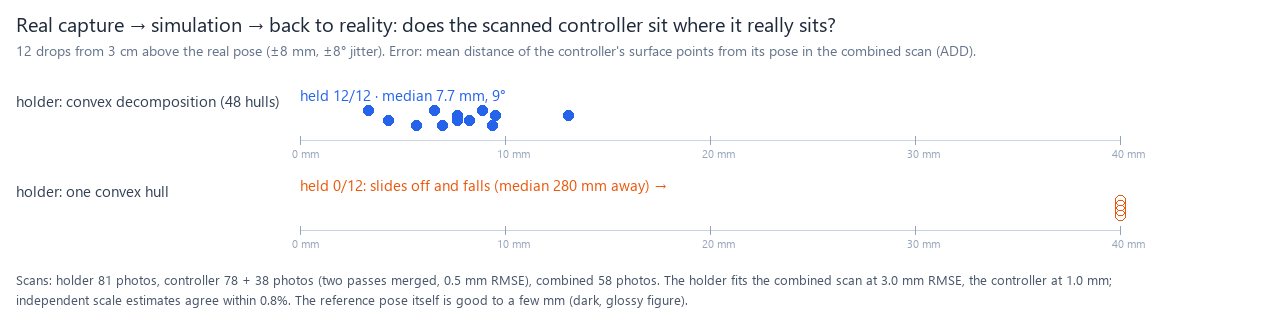
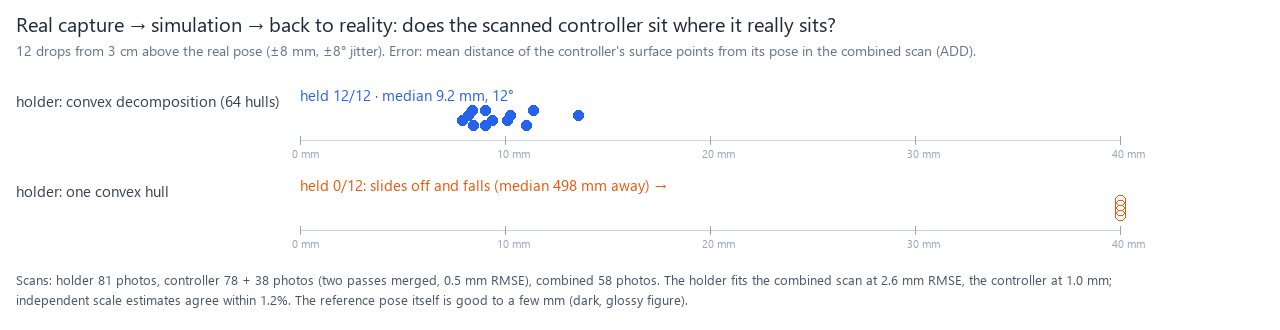
Real-world check: lead photo strip, fitted cylinder base for the holder
- mesh_ops.fit_disc_base: replace a pitted scanned round base with a cylinder fitted to its
  measured flat top (holder: r 51.1 mm, top 18.4 mm, 0.25 mm rim RMS); test
- Finer decomposition (64 / 39 hulls); holder registered on the figure above its base
- Drop-in: held 12/12, median 9.2 mm / 12 deg from the real pose; one hull 0/12
- Lead strip: cropped source photo -> each scan -> the simulated drop, on README and overview

diff --git a/docs/overview.html b/docs/overview.html
@@ -59,7 +59,7 @@
   <div class="card kpi"><b><span class="good">pick</span> vs <span class="bad">fail</span></b><span>Franka picks the scanned mug with convex decomposition, fails with one hull, in MuJoCo and Isaac Sim</span></div>
   <div class="card kpi"><b>88% → 100%</b><span>real photos where a detector trained only on our synthetic Isaac Sim data finds the object</span></div>
   <div class="card kpi"><b>5 / 6</b><span>true masses inside the uncertainty interval stored in the USD file (a single value: 2 / 6 within 10%)</span></div>
-  <div class="card kpi"><b>12 / 12</b><span>drops where a scanned controller settles into a scanned holder, median 7.7 mm from where the real one sits (phone photos)</span></div>
+  <div class="card kpi"><b>12 / 12</b><span>drops where a scanned controller settles into a scanned holder, median 9.2 mm from where the real one sits (phone photos)</span></div>
   <div class="card kpi"><b>18 / 18</b><span>unseen photos where the asset's Gaussian splat looks closer to reality than its textured mesh</span></div>
 </div>
 
@@ -133,14 +133,16 @@
 
 <h2>Real-world check: scan, simulate, compare</h2>
 <p class="muted" style="max-width:900px">Own iPhone 13 Pro photos of a controller holder and a game controller, each scanned on its own, then photographed together. The combined scan is the answer key: does the simulated controller settle where the real one sits?</p>
+<div class="card" style="margin-bottom:12px"><img src="figures/holder_fit_lead.jpg" alt="The real pair, each object scanned alone, and the simulated drop">
+  <p class="cap">One of the 58 photos of the real pair (left), the two objects each scanned on their own, and the simulation that puts them back together.</p></div>
 <div class="card" style="margin-bottom:12px"><img src="figures/holder_fit.webp" alt="Scanned controller dropped into the scanned holder">
-  <p class="cap">MuJoCo, both objects from phone photos (holder 81 photos, controller 78 + 38 in two passes). The controller is released 3 cm above its real pose; green is where it really rests, from the combined scan. Left: the holder's 48 convex pieces form the cupped hands, and the controller settles into them. Right: with one convex hull, the hands are a smooth bulge and the controller slides off.</p></div>
+  <p class="cap">MuJoCo, both objects from phone photos (holder 81 photos, controller 78 + 38 in two passes). The controller is released 3 cm above its real pose; green is where it really rests, from the combined scan. Left: the holder's 64 convex pieces form the cupped hands, and the controller settles into them. Right: with one convex hull, the hands are a smooth bulge and the controller slides off.</p></div>
 <div class="card" style="margin-bottom:12px"><img src="figures/holder_fit_results.png" alt="Settle error per drop">
-    <p class="cap">12 drops with ±8 mm / ±8° jitter. Decomposition: held 12/12, median 7.7 mm / 9° from the real pose (released 31 mm away). One hull: 0/12 held.</p></div>
+    <p class="cap">12 drops with ±8 mm / ±8° jitter. Decomposition: held 12/12, median 9.2 mm / 12° from the real pose (released 31 mm away). One hull: 0/12 held.</p></div>
 <div class="card small"><h3>How the answer key is made</h3><ul>
-    <li><b>Scale:</b> from two tape measurements (holder 21 cm tall; controller 5.5 cm thick). The combined scan, fitted with the holder at free scale, agrees within 0.8%.</li>
+    <li><b>Scale:</b> from two tape measurements (holder 21 cm tall; controller 5.5 cm thick). The combined scan, fitted with the holder at free scale, agrees within 1.2%.</li>
     <li><b>Two passes, one controller:</b> face-up and standing scans aligned by a similarity ICP over a rotation search (0.5 mm RMSE), pen box and paper removed, colors matched on the overlap, Poisson-meshed.</li>
-    <li><b>Ground truth:</b> both assets registered into the combined scan (holder 3.0 mm RMSE, controller 1.0 mm). The dark, glossy figure limits this to a few mm, so the 7.7 mm settle error is an upper bound.</li>
+    <li><b>Ground truth:</b> both assets registered into the combined scan (holder 2.6 mm RMSE, controller 1.0 mm). The dark, glossy figure limits this to a few mm, so the 9.2 mm settle error is an upper bound.</li>
     <li><code>scripts/study_holder_fit.py</code> · <code>register.py</code></li></ul></div>
 
 <h2>Robotics demos</h2>

diff --git a/scripts/study_holder_fit.py b/scripts/study_holder_fit.py
@@ -1,6 +1,6 @@
 """Real capture study: a scanned controller holder, a scanned controller, and the two together.
 
-    python scripts/study_holder_fit.py [--stage prep,scale,merge,assets,truth,sim,video,figure]
+    python scripts/study_holder_fit.py [--stage prep,scale,merge,base,assets,truth,sim,video,figure,lead]
 
 Data: four iPhone 13 Pro captures (data/raw/, git-ignored), each reconstructed with
 `scan2usd reconstruct` into data/work/<name>/:
@@ -19,6 +19,8 @@ Stages (outputs in output/holder_fit/):
   merge   the standing pass is registered onto the face-up pass (similarity ICP over a rotation
           search, after removing the pen box); their union, minus the face-up pass's paper-skirt band,
           is meshed (Poisson) into one controller.
+  base    the holder's glossy black base is barely seen from the side, so Poisson pits it; it is
+          replaced by a cylinder fitted to its densely measured flat top (mesh_ops.fit_disc_base).
   assets  scan2usd builds: holder (plastic, 528 g) and controller (plastic, 243 g), convex decomposition.
   truth   both assets registered into the combined scan: the real resting pose of the controller
           relative to the holder.
@@ -26,6 +28,7 @@ Stages (outputs in output/holder_fit/):
           settles vs where it really rests, for the decomposed and single-hull holder.
   video   side-by-side drop animation with a ghost of the real pose (docs/figures/holder_fit.{webp,jpg}).
   figure  per-trial error strip (docs/figures/holder_fit_results.png).
+  lead    the docs' lead strip: one source photo (cropped tight) -> each scan -> the drop.
 
 """
 
@@ -129,6 +132,23 @@ def stage_merge(state):
     state["merge"]["points"] = int(len(pts))
 
 
+def stage_base(state):
+    """The holder's round base: replace the pitted scan with a fitted cylinder (mesh_ops.fit_disc_base)."""
+    import trimesh
+
+    from scan2usd.mesh_ops import fit_disc_base
+
+    mesh = trimesh.load(WORK / "cod_holder" / "object_mesh.ply", force="mesh")
+    pts, nrm, _ = load("cod_holder")
+    fixed, fit = fit_disc_base(mesh, pts, nrm)
+    fixed.export(OUT / "cod_holder_base_fixed.ply")
+    s = state["scale"]["cod_holder"]
+    state["base"] = {"top_mm": fit["z_top"] * s * 1000, "radius_mm": fit["radius"] * s * 1000,
+                     "rim_rms_mm": fit["rim_rms"] * s * 1000, "watertight": bool(fixed.is_watertight)}
+    print(f"holder base: disc r {fit['radius'] * s * 1000:.1f} mm, top {fit['z_top'] * s * 1000:.1f} mm "
+          f"(rim fit RMS {fit['rim_rms'] * s * 1000:.2f} mm), watertight {fixed.is_watertight}")
+
+
 def stage_assets(state):
     """Physics assets from the scans, scaled to the measured sizes and masses."""
     import shutil
@@ -136,7 +156,7 @@ def stage_assets(state):
     from scan2usd.pipeline import BuildOptions, build_asset
 
     jobs = {
-        "cod_holder": (WORK / "cod_holder" / "object_mesh.ply", MEAS["cod_holder"]["height_m"], "z",
+        "cod_holder": (OUT / "cod_holder_base_fixed.ply", MEAS["cod_holder"]["height_m"], "z",
                        MEAS["cod_holder"]["mass_kg"]),
         # The merged controller is already metric (face-up scale): no rescale.
         "controller": (OUT / "controller_closed.ply", None, "z", MEAS["controller"]["mass_kg"]),
@@ -147,7 +167,7 @@ def stage_assets(state):
         shutil.rmtree(out, ignore_errors=True)
         opts = BuildOptions(name=name, material="plastic", mass=mass, up_axis="z", units="m", scale_to=scale_to,
                             scale_axis=axis, usda=True, run_sim=True, preview=True, gltf=True,
-                            bake_texture=2048, max_hulls=48)
+                            bake_texture=2048, max_hulls=64, hull_threshold=0.03)
         res = build_asset(mesh, out, opts)
         mp = res.summary["mass_properties"]
         state["assets"][name] = {"usd": str(res.usd_path.relative_to(ROOT)).replace("\\", "/"),
@@ -205,17 +225,21 @@ def stage_truth(state):
     from scipy.spatial.transform import Rotation
 
     scene = load("holder_with_controller")[0] * state["scale"]["holder_with_controller"]
-    scene_d = voxel_down(scene, 0.0015, 60000)
-    hp, _ = asset_points("cod_holder")
+    hp, _ = asset_points("cod_holder", 60000)
     cp, _ = asset_points("controller")
     tau = 0.002
     # Holder: both stand on the table (z = 0, Z-up), so search yaw only; scale is metric on both sides.
-    h_fit = global_register(voxel_down(hp, 0.002, 12000), scene_d, scale=1.0,
-                            rotations=candidate_rotations(180, yaw_only=True), tau=tau, trim=0.6, with_scale=False,
+    # Only the figure above its base is used: the base is a fitted disc in the asset but a pitted,
+    # paper-fringed scan in the combined capture, and a disc has no yaw to offer anyway.
+    above = 0.025
+    h_src = voxel_down(hp[hp[:, 2] > above], 0.002, 12000)
+    h_dst = voxel_down(scene[scene[:, 2] > above], 0.0015, 60000)
+    h_fit = global_register(h_src, h_dst, scale=1.0, rotations=candidate_rotations(72, yaw_only=True), tau=tau,
+                            trim=0.6, with_scale=False, keep=8,
                             anchor_src=np.array([*hp[:, :2].mean(0), 0.0]),
                             anchor_dst=np.array([*scene[:, :2].mean(0), 0.0]))
     # Scene scale check: free scale refinement from the holder fit.
-    h_free = similarity_icp(voxel_down(hp, 0.002, 12000), scene_d, h_fit.transform, iters=60, trim=0.6, tau=tau)
+    h_free = similarity_icp(h_src, h_dst, h_fit.transform, iters=60, trim=0.6, tau=tau)
     # Controller: the scene points the holder doesn't explain, then a full rotation search.
     d, _ = cKDTree(h_fit.transform.apply(hp)).query(scene)
     rest = scene[d > 0.004]
@@ -316,7 +340,7 @@ def stage_video(state):
     normal = R_true @ np.array([0, 0, 1.0])
     az = float(np.degrees(np.arctan2(-normal[1], -normal[0]))) + 35
     clips = []
-    for variant, coll in (("convex decomposition (48 hulls)", "hulls"), ("one convex hull", "single")):
+    for variant, coll in (("convex decomposition (64 hulls)", "hulls"), ("one convex hull", "single")):
         hold = asset_body(h_asset, "holder", collision=coll, free=False, rgba=(0.32, 0.32, 0.36, 1), visual_faces=60000)
         ctrl = asset_body(c_asset, "ctrl", pos=t_true + np.array([0, 0, 0.03]), quat=qt, collision="hulls",
                           rgba=(0.92, 0.92, 0.9, 1), visual_faces=60000)
@@ -381,7 +405,7 @@ def stage_figure(state):
     d.text((16, 40), "12 drops from 3 cm above the real pose (±8 mm, ±8° jitter). Error: mean distance of the controller's "
            "surface points from its pose in the combined scan (ADD).", fill=(100, 116, 139), font=_font(14))
     x0, y0, bw, add_max = 300, 80, 820, 40
-    for row, (name, lab, colr) in enumerate((("decomposed", "holder: convex decomposition (48 hulls)", (37, 99, 235)),
+    for row, (name, lab, colr) in enumerate((("decomposed", "holder: convex decomposition (64 hulls)", (37, 99, 235)),
                                              ("one hull", "holder: one convex hull", (234, 88, 12)))):
         y = y0 + row * 90
         d.text((16, y + 10), lab, fill=(51, 65, 85), font=_font(15))
@@ -407,16 +431,62 @@ def stage_figure(state):
     img.save(FIG / "holder_fit_results.png")
 
 
+def stage_lead(state, photo: str = "IMG_0024.jpg"):
+    """Lead strip for the docs: the real pair (one source photo, cropped) -> each scan alone -> the drop."""
+    import trimesh
+    from PIL import Image, ImageDraw
+
+    from scan2usd.preview import _font, render
+
+    S = 420
+    im = Image.open(ROOT / "data" / "raw" / "holder_with_controller" / photo).convert("RGB")
+    side, cx, top = 2750, im.width // 2, 360  # tight on the pair; drops most of the floor and flyers
+    photo_img = im.crop((cx - side // 2, top, cx + side // 2, top + side)).resize((S, S), Image.LANCZOS)
+
+    def scan(path, az, el):
+        full = trimesh.load(path, force="mesh")
+        m = full.simplify_quadric_decimation(face_count=250_000) if len(full.faces) > 250_000 else full.copy()
+        _, idx = cKDTree(full.vertices).query(m.vertices)
+        m.visual = trimesh.visual.ColorVisuals(m, vertex_colors=np.asarray(full.visual.vertex_colors)[idx])
+        return render([m], size=S, azimuth=az, elevation=el)
+
+    holder = scan(OUT / "cod_holder_base_fixed.ply", -90, 12)
+    ctrl = scan(OUT / "controller_merged.ply", -90, 55)
+    sim = Image.open(FIG / "holder_fit.jpg").convert("RGB").crop((95, 31, 545, 431)).resize((S, int(S * 400 / 450)))
+    simp = Image.new("RGB", (S, S), "white")
+    simp.paste(sim, (0, 0))
+    ImageDraw.Draw(simp).text((10, S - 36), "green: where it really rests (photo 1)", fill=(21, 128, 61), font=_font(17))
+    add = state["sim"]["decomposed"]["add_mm_median"]
+    panels = [(photo_img, "1 - The real pair", "iPhone photo (58 taken)"),
+              (holder, "2 - Holder, scanned alone", "81 photos to 3D"),
+              (ctrl, "3 - Controller, scanned alone", "78 + 38 photos, two passes"),
+              (simp, "4 - Simulated drop (MuJoCo)", f"settles {add:.1f} mm from the real pose")]
+    gap, top_h = 50, 70
+    out = Image.new("RGB", (4 * S + 3 * gap + 40, S + top_h + 20), "white")
+    d = ImageDraw.Draw(out)
+    for k, (img, t, sub) in enumerate(panels):
+        x = 20 + k * (S + gap)
+        d.text((x, 8), t, fill=(30, 41, 59), font=_font(24))
+        d.text((x, 40), sub, fill=(100, 116, 139), font=_font(17))
+        out.paste(img, (x, top_h))
+        d.rectangle([x, top_h, x + S - 1, top_h + S - 1], outline=(226, 232, 240))
+        if k < 3:
+            ax, ay = x + S + 10, top_h + S // 2
+            d.polygon([(ax, ay - 12), (ax + 28, ay), (ax, ay + 12)], fill=(37, 99, 235))
+    out.save(FIG / "holder_fit_lead.jpg", quality=88)  # re-encoded: no EXIF / GPS
+    print("wrote holder_fit_lead.jpg")
+
+
 def main() -> None:
     ap = argparse.ArgumentParser()
-    ap.add_argument("--stage", default="prep,scale,merge,assets,truth,sim,video,figure")
+    ap.add_argument("--stage", default="prep,scale,merge,base,assets,truth,sim,video,figure,lead")
     args = ap.parse_args()
     OUT.mkdir(parents=True, exist_ok=True)
     state_path = OUT / "state.json"
     state = json.loads(state_path.read_text()) if state_path.exists() else {}
     for st in args.stage.split(","):
-        {"prep": stage_prep, "scale": stage_scale, "merge": stage_merge, "assets": stage_assets, "truth": stage_truth,
-         "sim": stage_sim, "video": stage_video, "figure": stage_figure}[st](state)
+        {"prep": stage_prep, "scale": stage_scale, "merge": stage_merge, "base": stage_base, "assets": stage_assets, "truth": stage_truth,
+         "sim": stage_sim, "video": stage_video, "figure": stage_figure, "lead": stage_lead}[st](state)
         state_path.write_text(json.dumps(state, indent=2))
 
 

diff --git a/src/scan2usd/mesh_ops.py b/src/scan2usd/mesh_ops.py
@@ -210,3 +210,47 @@ def decimate(mesh: trimesh.Trimesh, target_faces: int) -> tuple[trimesh.Trimesh,
         notes.append("decimation opened the surface; consider a higher --target-faces")
     notes.append(f"decimated {len(mesh.faces)} -> {len(low.faces)} faces")
     return low, notes
+
+
+def fit_disc_base(mesh: trimesh.Trimesh, points: np.ndarray, normals: np.ndarray, max_height_frac: float = 0.2,
+                  segments: int = 128) -> tuple[trimesh.Trimesh, dict]:
+    """Replace a scanned round base (figure stands, trophies, lamps) with a fitted cylinder.
+
+    The sides of a dark or glossy base are rarely matched by photogrammetry, so Poisson fills them
+    with pits and bumps; its flat top, seen from above, is usually measured densely. The top plane is
+    the dominant height of upward-facing points in the lowest `max_height_frac` of the object; the
+    circle is a least-squares fit to that top's outer rim. The mesh below the top is replaced by the
+    cylinder (boolean union). `points`/`normals`: the measured cloud, same frame as `mesh` (Z-up,
+    table at z = 0). Returns the new mesh and the fit.
+    """
+    h = float(points[:, 2].max())
+    up = (normals[:, 2] > 0.9) & (points[:, 2] < max_height_frac * h)
+    if up.sum() < 200:
+        raise ValueError("no flat base top found")
+    hist, edges = np.histogram(points[up, 2], bins=100, range=(0, max_height_frac * h))
+    k = int(hist.argmax())
+    z_top = float(points[up, 2][(points[up, 2] >= edges[k]) & (points[up, 2] < edges[k + 1])].mean())
+    top = points[up & (np.abs(points[:, 2] - z_top) < 2 * (edges[1] - edges[0]))][:, :2]
+    from scipy.spatial import ConvexHull
+
+    rim = top[ConvexHull(top).vertices]
+    # Algebraic circle fit: x^2 + y^2 + a x + b y + c = 0.
+    a_, b_, c_ = np.linalg.lstsq(np.c_[rim, np.ones(len(rim))], -(rim ** 2).sum(1), rcond=None)[0]
+    center = np.array([-a_ / 2, -b_ / 2])
+    radius = float(np.sqrt(center @ center - c_))
+    rim_err = np.abs(np.linalg.norm(rim - center, axis=1) - radius)
+    disc = trimesh.creation.cylinder(radius=radius, height=z_top, sections=segments)
+    disc.apply_translation([center[0], center[1], z_top / 2])
+    upper = mesh.slice_plane([0, 0, z_top * 0.98], [0, 0, 1], cap=True)
+    merged = trimesh.boolean.union([upper, disc], engine="manifold")
+    if mesh.visual.kind == "vertex":
+        from scipy.spatial import cKDTree
+
+        _, j = cKDTree(mesh.vertices).query(merged.vertices)
+        col = np.asarray(mesh.visual.vertex_colors)[j].copy()
+        on_disc = merged.vertices[:, 2] < z_top * 0.99
+        col[on_disc] = np.median(np.asarray(mesh.visual.vertex_colors)[mesh.vertices[:, 2] < z_top][:, :4], 0)
+        merged.visual = trimesh.visual.ColorVisuals(merged, vertex_colors=col)
+    fit = {"z_top": z_top, "center": center.tolist(), "radius": radius, "rim_points": int(len(rim)),
+           "rim_rms": float(np.sqrt(np.mean(rim_err ** 2)))}
+    return merged, fit

diff --git a/tests/test_mesh_ops.py b/tests/test_mesh_ops.py
@@ -72,3 +72,24 @@ def test_load_obj_finds_texture_in_other_folder(tmp_path):
         "f 1/1 3/3 2/2\nf 1/1 2/2 4/4\nf 1/1 4/4 3/3\nf 2/2 3/3 4/4\n")
     mesh = load_mesh(tmp_path / "meshes" / "model.obj")
     assert has_texture(mesh)
+
+
+def test_fit_disc_base_replaces_pitted_base():
+    import trimesh
+    from scan2usd.mesh_ops import fit_disc_base
+
+    base = trimesh.creation.cylinder(radius=0.05, height=0.018, sections=64)
+    base.apply_translation((0.01, -0.02, 0.009))
+    body = trimesh.creation.box((0.03, 0.03, 0.15))
+    body.apply_translation((0.01, -0.02, 0.018 + 0.075 - 0.002))
+    good = trimesh.boolean.union([base, body], engine="manifold")
+    pts, fi = trimesh.sample.sample_surface(good, 30000, seed=0)
+    nrm = good.face_normals[fi]
+    # A pitted scan: dents in the base's side.
+    bad = good.copy()
+    side = (np.abs(bad.vertices[:, 2] - 0.009) < 0.008) & (np.linalg.norm(bad.vertices[:, :2] - (0.01, -0.02), axis=1) > 0.04)
+    bad.vertices[side, :2] -= 0.3 * (bad.vertices[side, :2] - (0.01, -0.02))
+    new, fit = fit_disc_base(bad, pts, nrm)
+    assert abs(fit["z_top"] - 0.018) < 0.001 and abs(fit["radius"] - 0.05) < 0.001
+    assert np.allclose(fit["center"], (0.01, -0.02), atol=0.001)
+    assert new.is_watertight and abs(new.volume - good.volume) / good.volume < 0.03

diff --git a/README.md b/README.md
@@ -6,7 +6,7 @@
 
 - **Accurate:** 0.6–0.8 mm mean surface error on textured objects, scored against ground-truth meshes; metric size within ±1.4% from a ColorChecker alone, no ruler.
 - **Physics-ready:** convex decomposition, mass and inertia, articulated joints. A Franka Panda picks a scanned mug that it can't pick when the mug has a single convex hull.
-- **Useful for robot learning:** a detector trained only on Isaac Sim renders of scanned assets finds the object in **100%** of 67 real photos, and drives a perception-to-grasp loop (10/10 picks). From my own phone photos, a scanned controller settles into a scanned holder within 7.7 mm of where the real one sits.
+- **Useful for robot learning:** a detector trained only on Isaac Sim renders of scanned assets finds the object in **100%** of 67 real photos, and drives a perception-to-grasp loop (10/10 picks). From my own phone photos, a scanned controller settles into a scanned holder within 9.2 mm of where the real one sits.
 - **Assets that know what they don't know:** grasps and measurement uncertainty stored in the USD file (codeless schemas), guidance on which photos to take next, and a **Gaussian-splat look riding on the physics hulls** that beats the textured mesh on 18/18 held-out photos.
 
 > Personal R&D project · Oct 2026 · **[Visual overview](https://visualknight.github.io/scan2usd/)** · **[90 s demo video](https://visualknight.github.io/scan2usd/scan2usd_demo.mp4)** · **[Interactive 3D gallery](https://visualknight.github.io/scan2usd/gallery/)** (toggle collision hulls) · **[USD asset library](https://visualknight.github.io/scan2usd/library/)** · benchmark: [docs/benchmark.md](docs/benchmark.md)
@@ -47,9 +47,9 @@
 
 Textured objects reconstruct to 0.6–0.8 mm. Plain or hidden surfaces (the printed mug's white interior, the bowl's underside) never get matched and are sealed, so their volume is off; the asset records this as uncertainty (below), and a measured `--mass` keeps physics right. Metric scale from the ColorChecker alone, no ruler: 0.35–1.43% error.
 
-![Holder fit](docs/figures/holder_fit.jpg)
+![Real pair, each scan, simulated drop](docs/figures/holder_fit_lead.jpg)
 
-**Real-world check: scan, simulate, compare** ([animation](docs/figures/holder_fit.webp), [per-drop errors](docs/figures/holder_fit_results.png)). Own iPhone photos of a controller holder (81) and a controller (78 + 38, two passes merged by similarity ICP at 0.5 mm RMSE), then of the two together. In MuJoCo, the scanned controller dropped into the scanned holder settles **12/12** times, median **7.7 mm / 9°** from where the real one sits in the combined scan. With a single convex hull for the holder it slides off every time. Scale came from two tape measurements; the combined scan agrees within 0.8%. `scripts/study_holder_fit.py`
+**Real-world check: scan, simulate, compare** ([drop animation](docs/figures/holder_fit.webp), [per-drop errors](docs/figures/holder_fit_results.png)). Own iPhone photos of a controller holder (81) and a controller (78 + 38, two passes merged by similarity ICP at 0.5 mm RMSE), then of the two together. In MuJoCo, the scanned controller dropped into the scanned holder settles **12/12** times, median **9.2 mm / 12°** from where the real one sits in the combined scan. With a single convex hull for the holder it slides off every time. Scale came from two tape measurements; the combined scan agrees within 1.2%. The holder's glossy base, pitted in the scan, is replaced by a cylinder fitted to its measured top (0.25 mm rim error). `scripts/study_holder_fit.py`
 
 ![Panda](docs/figures/panda_demo.jpg)
 
@@ -85,7 +85,7 @@ Python 3.10–3.12, with [uv](https://docs.astral.sh/uv/):
 uv venv --python 3.11
 uv pip install -e ".[dev]"
 .venv\Scripts\scan2usd demo            # synthetic mug -> output\demo\ (see preview.png)
-.venv\Scripts\python -m pytest         # 101 tests
+.venv\Scripts\python -m pytest         # 102 tests
 ```
 
 Photo reconstruction needs [COLMAP](https://github.com/colmap/colmap/releases) (CUDA build): unzip it to `tools\colmap\` or set `SCAN2USD_COLMAP`.
